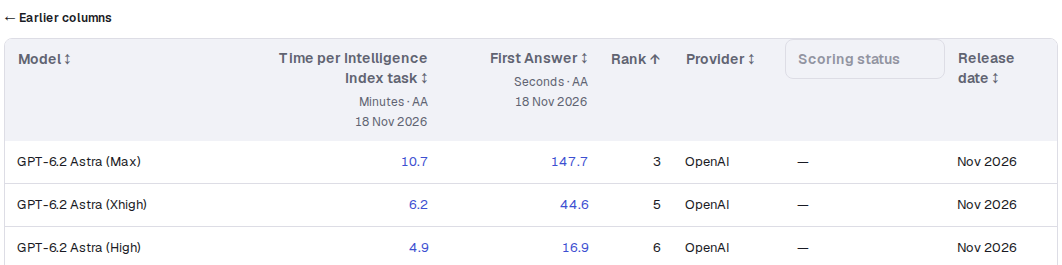
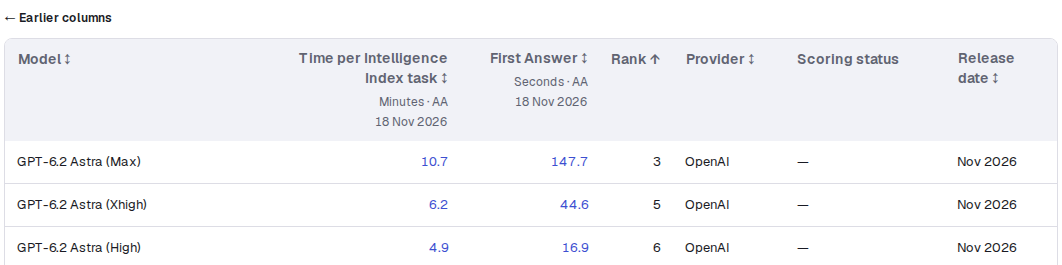
fix: clarify leaderboard ranks and table edges
Label phone search, explain missing and tied ranks, and clarify the master scroll cue. Give Provider room at the evaluation table edge and render Scoring status as a plain header. Retake both sizes across the shared layouts.

diff --git a/src/components/master-leaderboard.tsx b/src/components/master-leaderboard.tsx
@@ -23,7 +23,7 @@ function MasterModelSearch({value,onCommit}:{value:string;onCommit:(value:string
     const timer=window.setTimeout(()=>onCommit(next),300);
     return()=>window.clearTimeout(timer);
   },[draft,value,onCommit]);
-  return <div className="toolbar-model-search"><label className="sr-only" htmlFor="master-search">Search master model names</label><Input id="master-search" aria-describedby="master-search-help" value={draft} placeholder="Search model names…" onChange={event=>setDraft(event.target.value.slice(0,200))}/><HelperText id="master-search-help">Comma-separated: sol, haiku.</HelperText></div>;
+  return <div className="toolbar-model-search"><label className="text-caption text-secondary font-semibold md:sr-only" htmlFor="master-search">Search models</label><Input id="master-search" aria-describedby="master-search-help" value={draft} placeholder="Search model names…" onChange={event=>setDraft(event.target.value.slice(0,200))}/><HelperText id="master-search-help">Comma-separated: sol, haiku.</HelperText></div>;
 }
 
 function speedValue(seconds:number|null|undefined,format:(seconds:number|null|undefined)=>string,unit?:string){
@@ -87,6 +87,7 @@ export default function MasterLeaderboard({rows,evaluations,costCapturedLabel,sp
   const pages=Math.max(1,Math.ceil(sorted.length/size)),page=Math.min(pages,Math.max(1,Math.floor(Number(params.get("mi"))||1)));
   const pageRows=sorted.slice((page-1)*size,page*size);
   const sortedEvaluation=orderedEvaluations.find(e=>e.id===sort);
+  const unrankedCount=sortedEvaluation?sorted.filter(row=>!row.cells[sort]).length:0;
   const activeFilterCount=selectedProviders.length+(favoritesOnly?1:0);
   const sortOptions=[
     {value:"model",label:"Model"},
@@ -144,10 +145,10 @@ export default function MasterLeaderboard({rows,evaluations,costCapturedLabel,sp
         <Button className="master-mobile-controls__filters" variant="secondary" size="default" aria-haspopup="dialog" onClick={()=>setFiltersOpen(true)}>Filters{activeFilterCount?` · ${activeFilterCount} active`:""}</Button>
       </div>
     </div>
-    <p aria-live="polite">{sorted.length.toLocaleString()} {sorted.length===1?"model":"models"}{selectedProviders.length?` · ${providerSelectionLabel(selectedProviders)}`:""}{favoritesOnly?` · ${favorites.length} favorites saved in this browser`:""}<span className="master-sort-summary"> · Sorted by {sortLabel}{sortedEvaluation?" rank":""} {direction==="asc"?"↑":"↓"}</span></p>
-    <HelperText className="leaderboard-legend">— and “Not ranked” mean no captured AA value. Aggregate uses 9 of {orderedEvaluations.length} evaluations.</HelperText>
+    <p aria-live="polite">{sorted.length.toLocaleString()} {sorted.length===1?"model":"models"}{selectedProviders.length?` · ${providerSelectionLabel(selectedProviders)}`:""}{favoritesOnly?` · ${favorites.length} favorites saved in this browser`:""}<span className="master-sort-summary"> · Sorted by {sortLabel}{sortedEvaluation?" rank":""} {direction==="asc"?"↑":"↓"}</span>{unrankedCount>0&&<span> · {unrankedCount===sorted.length?`No ${sortLabel} ranks in these results.`:"Unranked models appear last."}</span>}</p>
+    <HelperText className="leaderboard-legend">Missing AA values show as “—” or “Not ranked”. Ranks can tie. Aggregate uses 9 of {orderedEvaluations.length} evaluations.</HelperText>
     {favoriteNotice&&<Alert role="status" live="polite" tone="error">{favoriteNotice}</Alert>}
-    <TableScroll showOverflowCue className="master-table-view" label="Master leaderboard, scroll horizontally for evaluations"><Table><caption className="sr-only">Model ranks, aggregate rank scores, Intelligence Index task costs and speeds across every evaluation</caption><thead><tr>{header("model","Model","master-model")}{header("provider","Provider","master-provider")}{metricHeader("intelligence-index-cost","master-cost","Cost per Intelligence Index task",speedDetail("USD",costCapturedLabel),`Artificial Analysis model profile values · captured ${costCapturedLabel}`)}{metricHeader("time-per-task","master-time","Time per Task",speedDetail("Minutes",speedCapturedLabel),`Average time per Intelligence Index task from Artificial Analysis · captured ${speedCapturedLabel}`)}{metricHeader("first-answer","master-first","First Answer",speedDetail("Seconds",speedCapturedLabel),`Time to first answer token on the creator's API, from Artificial Analysis · captured ${speedCapturedLabel}`)}{metricHeader("aggregate-score","master-aggregate","Aggregate Score","Average rank · lower is better","Arithmetic mean of available source ranks across the nine selected dimensions; lower is better")}{orderedEvaluations.map(e=>{const label=masterEvaluationLabel(e);return <th key={e.id} scope="col" className="numeric" aria-sort={sort===e.id?(direction==="asc"?"ascending":"descending"):"none"}><Button variant="quiet" size="compact" title={`Original source rank · captured ${capturedDate(e.captured_at)}`} onClick={()=>update({ms:e.id,md:sort===e.id&&direction==="asc"?"desc":"asc"})}>{label} {sort===e.id?(direction==="asc"?"↑":"↓"):"↕"}<small>Rank · {capturedDate(e.captured_at)}</small></Button></th>;})}</tr></thead><tbody>{pageRows.map(r=>{const aggregate=averageMasterRank(r);return <tr key={r.model_id}><td className="master-model"><IconButton className="favorite-star" size="compact" type="button" aria-pressed={favorites.includes(r.identity_key)} aria-label={`${favorites.includes(r.identity_key)?"Remove":"Add"} ${r.model} to favorites`} title={`${favorites.includes(r.identity_key)?"Remove from":"Add to"} favorites`} onClick={()=>toggleFavorite(r.identity_key)}>{favorites.includes(r.identity_key)?"★":"☆"}</IconButton> <Link href={`/?mq=${encodeURIComponent(r.model)}&mp=${encodeURIComponent(r.provider)}#master-leaderboard`}>{r.model}</Link></td><td className="master-provider">{r.provider}</td><td className="numeric master-cost">{r.intelligence_index_cost?<a href={r.intelligence_index_cost.url} target="_blank" rel="noreferrer" title={`Artificial Analysis profile for ${r.intelligence_index_cost.model} · cost captured ${r.intelligence_index_cost.profile_captured_at}`}>{costFormatter.format(r.intelligence_index_cost.cost_usd)}</a>:<span className="muted">—</span>}</td><td className="numeric master-time">{speedValue(r.speed?.time_per_task_s,formatTimePerTask)}</td><td className="numeric master-first">{speedValue(r.speed?.first_answer_s,formatFirstAnswer)}</td><td className="numeric master-aggregate">{aggregate?<span title={`Average of ${aggregate.count} of 9 available source ranks`} aria-label={`${aggregate.score.toFixed(1)} average rank based on ${aggregate.count} of 9 dimensions`}>{aggregate.score.toFixed(1)}<small>{aggregate.count}/9 dims</small></span>:<span className="muted" title="No source rank in any of the nine aggregate dimensions">—</span>}</td>{orderedEvaluations.map(e=>{const c=r.cells[e.id];const label=masterEvaluationLabel(e);return <td key={e.id} className="numeric">{c?<Link className="source-rank" href={c.href} title={c.entry.scoring_status??"Original source rank"} aria-label={`${r.model}, ${label}, original source rank ${c.entry.source_rank}`}>#{c.entry.source_rank}</Link>:<MissingEvaluationRank evaluationId={e.id}/>}</td>;})}</tr>;})}{!sorted.length&&<tr><td className="empty" colSpan={orderedEvaluations.length+6}>No models match these filters.</td></tr>}</tbody></Table></TableScroll>
+    <TableScroll showOverflowCue earlierColumnsLabel="Columns behind pinned fields" className="master-table-view" label="Master leaderboard, scroll horizontally for evaluations"><Table><caption className="sr-only">Model ranks, aggregate rank scores, Intelligence Index task costs and speeds across every evaluation</caption><thead><tr>{header("model","Model","master-model")}{header("provider","Provider","master-provider")}{metricHeader("intelligence-index-cost","master-cost","Cost per Intelligence Index task",speedDetail("USD",costCapturedLabel),`Artificial Analysis model profile values · captured ${costCapturedLabel}`)}{metricHeader("time-per-task","master-time","Time per Task",speedDetail("Minutes",speedCapturedLabel),`Average time per Intelligence Index task from Artificial Analysis · captured ${speedCapturedLabel}`)}{metricHeader("first-answer","master-first","First Answer",speedDetail("Seconds",speedCapturedLabel),`Time to first answer token on the creator's API, from Artificial Analysis · captured ${speedCapturedLabel}`)}{metricHeader("aggregate-score","master-aggregate","Aggregate Score","Average rank · lower is better","Arithmetic mean of available source ranks across the nine selected dimensions; lower is better")}{orderedEvaluations.map(e=>{const label=masterEvaluationLabel(e);return <th key={e.id} scope="col" className="numeric" aria-sort={sort===e.id?(direction==="asc"?"ascending":"descending"):"none"}><Button variant="quiet" size="compact" title={`Original source rank · captured ${capturedDate(e.captured_at)}`} onClick={()=>update({ms:e.id,md:sort===e.id&&direction==="asc"?"desc":"asc"})}>{label} {sort===e.id?(direction==="asc"?"↑":"↓"):"↕"}<small>Rank · {capturedDate(e.captured_at)}</small></Button></th>;})}</tr></thead><tbody>{pageRows.map(r=>{const aggregate=averageMasterRank(r);return <tr key={r.model_id}><td className="master-model"><IconButton className="favorite-star" size="compact" type="button" aria-pressed={favorites.includes(r.identity_key)} aria-label={`${favorites.includes(r.identity_key)?"Remove":"Add"} ${r.model} to favorites`} title={`${favorites.includes(r.identity_key)?"Remove from":"Add to"} favorites`} onClick={()=>toggleFavorite(r.identity_key)}>{favorites.includes(r.identity_key)?"★":"☆"}</IconButton> <Link href={`/?mq=${encodeURIComponent(r.model)}&mp=${encodeURIComponent(r.provider)}#master-leaderboard`}>{r.model}</Link></td><td className="master-provider">{r.provider}</td><td className="numeric master-cost">{r.intelligence_index_cost?<a href={r.intelligence_index_cost.url} target="_blank" rel="noreferrer" title={`Artificial Analysis profile for ${r.intelligence_index_cost.model} · cost captured ${r.intelligence_index_cost.profile_captured_at}`}>{costFormatter.format(r.intelligence_index_cost.cost_usd)}</a>:<span className="muted">—</span>}</td><td className="numeric master-time">{speedValue(r.speed?.time_per_task_s,formatTimePerTask)}</td><td className="numeric master-first">{speedValue(r.speed?.first_answer_s,formatFirstAnswer)}</td><td className="numeric master-aggregate">{aggregate?<span title={`Average of ${aggregate.count} of 9 available source ranks`} aria-label={`${aggregate.score.toFixed(1)} average rank based on ${aggregate.count} of 9 dimensions`}>{aggregate.score.toFixed(1)}<small>{aggregate.count}/9 dims</small></span>:<span className="muted" title="No source rank in any of the nine aggregate dimensions">—</span>}</td>{orderedEvaluations.map(e=>{const c=r.cells[e.id];const label=masterEvaluationLabel(e);return <td key={e.id} className="numeric">{c?<Link className="source-rank" href={c.href} title={c.entry.scoring_status??"Original source rank"} aria-label={`${r.model}, ${label}, original source rank ${c.entry.source_rank}`}>#{c.entry.source_rank}</Link>:<MissingEvaluationRank evaluationId={e.id}/>}</td>;})}</tr>;})}{!sorted.length&&<tr><td className="empty" colSpan={orderedEvaluations.length+6}>No models match these filters.</td></tr>}</tbody></Table></TableScroll>
     <ul className="master-cards" aria-label="Master leaderboard models">
       {pageRows.map(r=><MasterCard key={r.model_id} row={r} favorite={favorites.includes(r.identity_key)} orderedEvaluations={orderedEvaluations} sortedEvaluation={sortedEvaluation} onToggleFavorite={toggleFavorite}/>)}
       {!sorted.length&&<li className="empty">No models match these filters.</li>}

diff --git a/src/components/leaderboard.tsx b/src/components/leaderboard.tsx
@@ -13,7 +13,7 @@ const costFormatter=new Intl.NumberFormat("en-US",{style:"currency",currency:"US
 const numericColumns=["source_rank","score_value","cost_usd","time_per_task","first_answer"];
 const speedColumns=["time_per_task","first_answer"];
 const columnOrder=["model","score_value","cost_usd","time_per_task","first_answer","source_rank","provider","scoring_status","confidence_interval_display","release_date_label"];
-const columnWidths:Record<string,number>={model:240,score_value:120,cost_usd:176,time_per_task:208,first_answer:160,source_rank:72,provider:112,scoring_status:160,confidence_interval_display:160,release_date_label:112};
+const columnWidths:Record<string,number>={model:240,score_value:120,cost_usd:176,time_per_task:208,first_answer:140,source_rank:72,provider:112,scoring_status:160,confidence_interval_display:160,release_date_label:112};
 const columnId=(column:ColumnDef<Entry>)=>column.id??("accessorKey" in column?String(column.accessorKey):"");
 
 function SpeedValue({speed,seconds,format}:{speed:ModelSpeed|undefined;seconds:number|null;format:(seconds:number|null)=>string}){
@@ -46,7 +46,7 @@ function LeaderboardModelSearch({value,onCommit}:{value:string;onCommit:(value:s
     const timer=window.setTimeout(()=>onCommit(next),300);
     return()=>window.clearTimeout(timer);
   },[draft,value,onCommit]);
-  return <div className="toolbar-model-search"><label className="sr-only" htmlFor="model-search">Search model names</label><Input id="model-search" aria-describedby="model-search-help" placeholder="Search model names…" value={draft} onChange={event=>setDraft(event.target.value.slice(0,200))}/><HelperText id="model-search-help">Separate keywords with commas, e.g. sol, haiku.</HelperText></div>;
+  return <div className="toolbar-model-search"><label className="text-caption text-secondary font-semibold md:sr-only" htmlFor="model-search">Search models</label><Input id="model-search" aria-describedby="model-search-help" placeholder="Search model names…" value={draft} onChange={event=>setDraft(event.target.value.slice(0,200))}/><HelperText id="model-search-help">Separate keywords with commas, e.g. sol, haiku.</HelperText></div>;
 }
 
 export default function Leaderboard({entries,evaluation,taskCosts,speeds}:{entries:Entry[];evaluation:Evaluation;taskCosts:Record<string,IntelligenceIndexTaskCost>;speeds:Record<string,ModelSpeed>}){
@@ -97,7 +97,7 @@ export default function Leaderboard({entries,evaluation,taskCosts,speeds}:{entri
       <Button size="compact" variant="quiet" onClick={()=>router.replace(pathname,{scroll:false})}>Clear filters</Button>
     </div>
     <p aria-live="polite">{sorted.length.toLocaleString()} results{state.provider.length?` · ${providerSelectionLabel(state.provider)}`:""}</p>
-    <HelperText className="leaderboard-legend">— means no captured AA value.{evaluation.has_scoring_status?" Scoring status appears only when AA provides it.":""}</HelperText>
+    <HelperText className="leaderboard-legend">Missing AA values show as “—”.{evaluation.has_scoring_status?" Scoring status appears only when AA provides it.":""}</HelperText>
     <div className="evaluation-mobile-sort">
       <label htmlFor="evaluation-sort">Sort by</label>
       <Select id="evaluation-sort" value={allowedSort} onChange={event=>update({sort:event.target.value,direction:"asc"})}>
@@ -110,12 +110,16 @@ export default function Leaderboard({entries,evaluation,taskCosts,speeds}:{entri
         <Table className="evaluation-table" style={{tableLayout:"fixed",width:columns.reduce((sum,column)=>sum+columnWidths[columnId(column)],0)}}>
           <caption className="sr-only">{evaluation.display_name} source rankings</caption>
           <colgroup>{columns.map(column=><col key={columnId(column)} style={{width:columnWidths[columnId(column)]}}/>)}</colgroup>
-          <thead>{table.getHeaderGroups().map(group=><tr key={group.id}>{group.headers.map(header=><th key={header.id} scope="col" className={[numericColumns.includes(header.id)?"numeric":"",speedColumns.includes(header.id)?"speed-column":"",header.id==="model"?"model":""].filter(Boolean).join(" ")} aria-sort={allowedSort===header.id?(state.direction==="asc"?"ascending":"descending"):"none"}>
-            <Button variant="quiet" size="compact" disabled={header.id==="scoring_status"} onClick={()=>update({sort:header.id,direction:allowedSort===header.id&&state.direction==="asc"?"desc":"asc"})}>
-              <span>{flexRender(header.column.columnDef.header,header.getContext())}{"\u00a0"}{allowedSort===header.id?(state.direction==="asc"?"↑":"↓"):header.id==="scoring_status"?"":"↕"}</span>
-              {speedColumns.includes(header.id)&&<small><span>{header.id==="time_per_task"?"Minutes":"Seconds"} · AA</span><span>{modelSpeedCaptureLabel}</span></small>}
-            </Button>
-          </th>)}</tr>)}</thead>
+          <thead>{table.getHeaderGroups().map(group=><tr key={group.id}>{group.headers.map(header=>{
+            const heading=flexRender(header.column.columnDef.header,header.getContext());
+            if(header.id==="scoring_status")return <th key={header.id} scope="col" className="evaluation-static-heading">{heading}</th>;
+            return <th key={header.id} scope="col" className={[numericColumns.includes(header.id)?"numeric":"",speedColumns.includes(header.id)?"speed-column":"",header.id==="model"?"model":""].filter(Boolean).join(" ")} aria-sort={allowedSort===header.id?(state.direction==="asc"?"ascending":"descending"):"none"}>
+              <Button variant="quiet" size="compact" onClick={()=>update({sort:header.id,direction:allowedSort===header.id&&state.direction==="asc"?"desc":"asc"})}>
+                <span>{heading}{"\u00a0"}{allowedSort===header.id?(state.direction==="asc"?"↑":"↓"):"↕"}</span>
+                {speedColumns.includes(header.id)&&<small><span>{header.id==="time_per_task"?"Minutes":"Seconds"} · AA</span><span>{modelSpeedCaptureLabel}</span></small>}
+              </Button>
+            </th>;
+          })}</tr>)}</thead>
           <tbody>{table.getRowModel().rows.map(row=><tr key={row.original.id}>{row.getVisibleCells().map(cell=><td key={cell.id} data-column={cell.column.id} className={cell.column.id==="model"?"model":cell.column.id==="confidence_interval_display"?"evaluation-interval":numericColumns.includes(cell.column.id)?"numeric":""}>{flexRender(cell.column.columnDef.cell,cell.getContext())}</td>)}</tr>)}
             {rows.length===0&&<tr><td colSpan={columns.length} className="empty">No models match these filters. Clear filters to see all entries.</td></tr>}
           </tbody>

diff --git a/src/components/ui/primitives.tsx b/src/components/ui/primitives.tsx
@@ -220,7 +220,7 @@ export function Skeleton({ className, ...props }: HTMLAttributes<HTMLDivElement>
   return <div {...props} aria-hidden="true" className={classes("ui-skeleton", className)} />;
 }
 
-export function TableScroll({ label, className, children, showOverflowCue = false, ...props }: HTMLAttributes<HTMLDivElement> & { label: string; showOverflowCue?: boolean }) {
+export function TableScroll({ label, className, children, showOverflowCue = false, earlierColumnsLabel, ...props }: HTMLAttributes<HTMLDivElement> & { label: string; showOverflowCue?: boolean; earlierColumnsLabel?: string }) {
   const regionId = useId();
   const region = (
     <div {...props} id={regionId} className={classes("table-scroll", className)} role="region" aria-label={label} tabIndex={props.tabIndex ?? 0}>
@@ -228,7 +228,7 @@ export function TableScroll({ label, className, children, showOverflowCue = fals
       <StickyTableHeaders regionId={regionId} />
     </div>
   );
-  return showOverflowCue ? <TableScrollFrame regionId={regionId}>{region}</TableScrollFrame> : region;
+  return showOverflowCue ? <TableScrollFrame regionId={regionId} earlierColumnsLabel={earlierColumnsLabel}>{region}</TableScrollFrame> : region;
 }
 
 export function Table({ className, ...props }: TableHTMLAttributes<HTMLTableElement>) {

diff --git a/src/components/ui/table-scroll-frame.tsx b/src/components/ui/table-scroll-frame.tsx
@@ -2,7 +2,7 @@
 
 import { useEffect, useState, type ReactNode } from "react";
 
-export function TableScrollFrame({ regionId, children }: { regionId: string; children: ReactNode }) {
+export function TableScrollFrame({ regionId, earlierColumnsLabel = "Earlier columns", children }: { regionId: string; earlierColumnsLabel?: string; children: ReactNode }) {
   const [earlierColumns, setEarlierColumns] = useState(false);
   const [moreColumns, setMoreColumns] = useState(false);
   useEffect(() => {
@@ -23,7 +23,7 @@ export function TableScrollFrame({ regionId, children }: { regionId: string; chi
   }, [regionId]);
   return <div className="table-scroll-frame">
     <div className="table-overflow-cue-slot" aria-hidden="true">
-      {earlierColumns && <span className="table-overflow-cue table-overflow-cue--earlier">← Earlier columns</span>}
+      {earlierColumns && <span className="table-overflow-cue table-overflow-cue--earlier">← {earlierColumnsLabel}</span>}
       {moreColumns && <span className="table-overflow-cue table-overflow-cue--more">More columns →</span>}
     </div>
     {children}

diff --git a/src/app/globals.css b/src/app/globals.css
@@ -1012,7 +1012,7 @@ th.numeric {
 @media (min-width: 1280px) {
   /* Narrower frozen widths keep about two evaluation columns visible beside the five frozen ones. */
   .master {
-    --master-model-width: 13rem;
+    --master-model-width: 14rem;
     --master-provider-width: 6.5rem;
     --master-cost-width: 9.5rem;
     --master-time-width: 6.5rem;
@@ -1909,6 +1909,13 @@ a.ui-button:hover {
 .evaluation-table th {
   vertical-align: top;
   white-space: normal;
+}
+
+.evaluation-static-heading {
+  padding: var(--space-2) var(--space-3);
+  color: var(--text-secondary);
+  font-size: var(--font-size-ui);
+  line-height: var(--line-height-body);
 }
 
 .evaluation-table .model {

diff --git a/docs/approved-looks.md b/docs/approved-looks.md
@@ -1,6 +1,8 @@
 # Looks the design approves on purpose; the fresh-eyes checker is told not to report them
 
-- Desktop master and evaluation tables scroll horizontally. Frozen model names and “← Earlier columns” / “More columns →” captions show where other columns continue.
+- Desktop tables can clip at a column boundary. Their captions show which way to scroll, and master columns can move behind the pinned fields.
 - A phone favorite star is centered in its 44×44 button. The button's left edge aligns with the metric tiles; the glyph's inset preserves the touch area and is intentional.
 - The About-data phone first-screen capture ends partway through the scrolling article. The heading and capture date are whole; the article continues below the viewport.
 - Evaluation cost and timing values are blue links to Artificial Analysis model profiles. Master timing values are plain text.
+- Tied AA scores keep their shared source rank, so rank links can show the same number for different models.
+- An evaluation phone capture can end partway through the first result card. Its lower metric tiles continue below the viewport.
